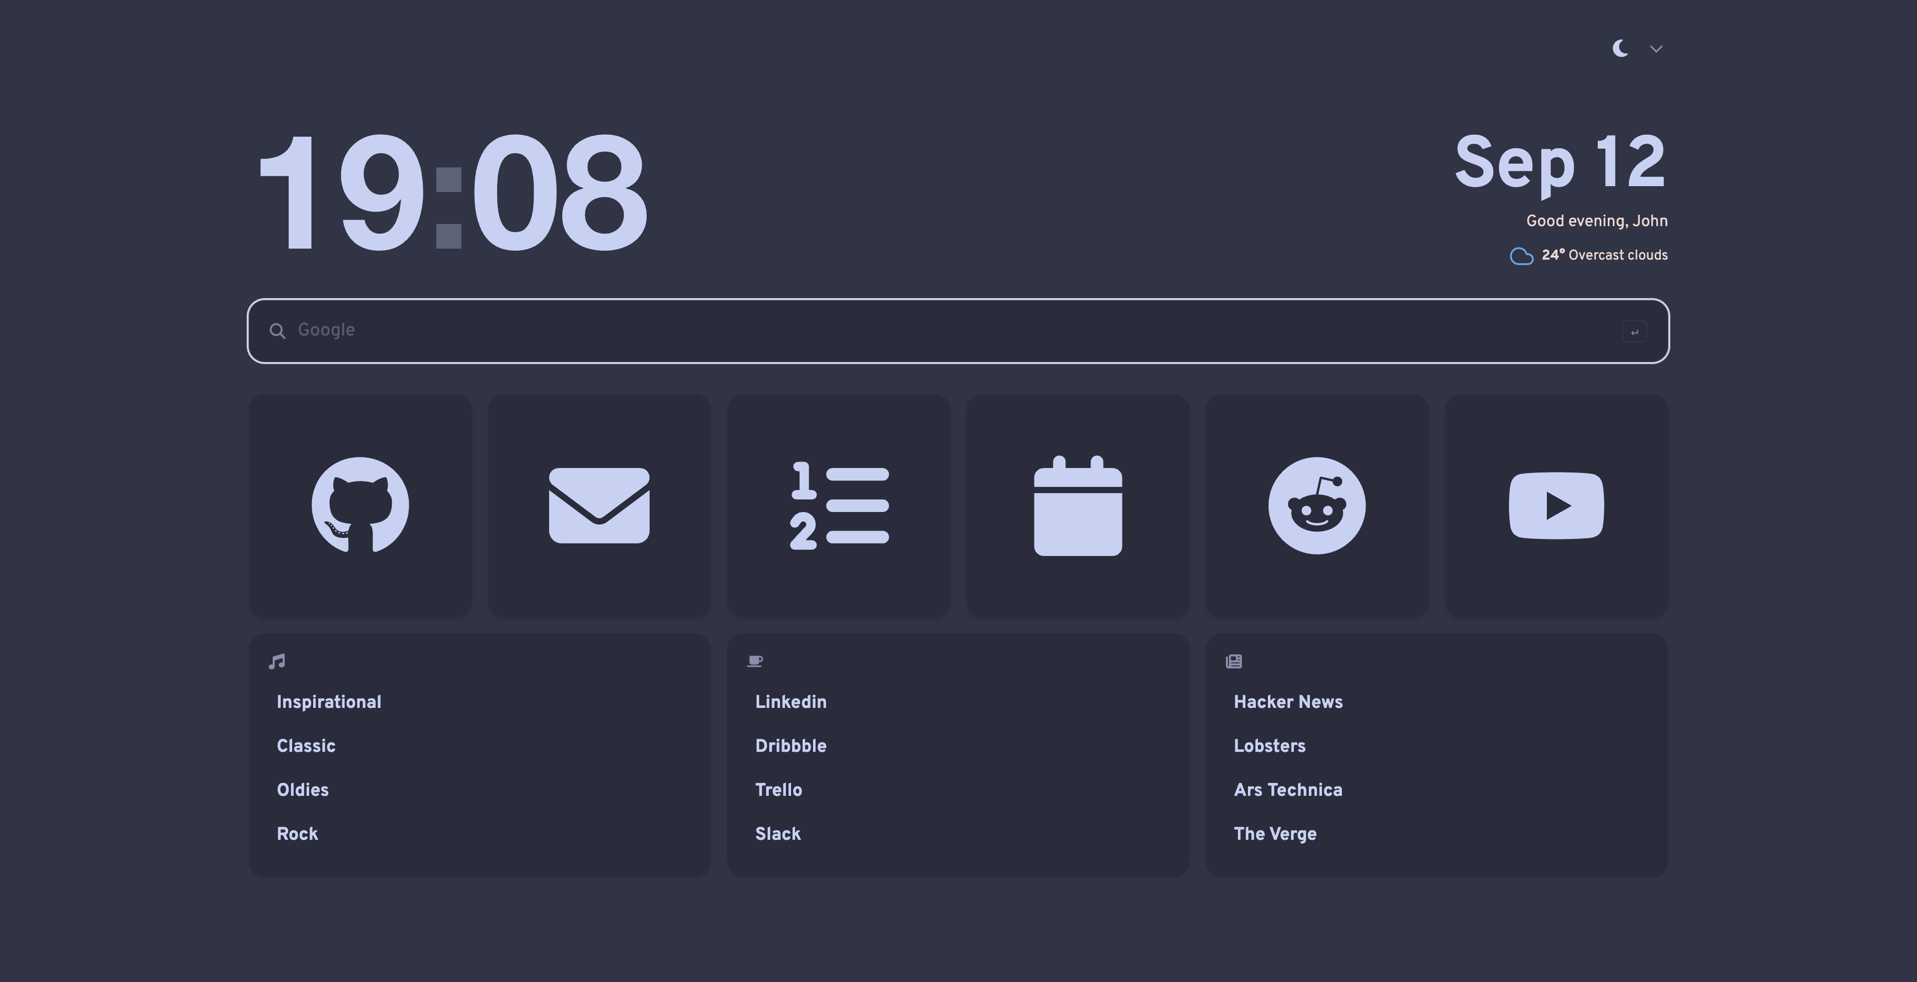
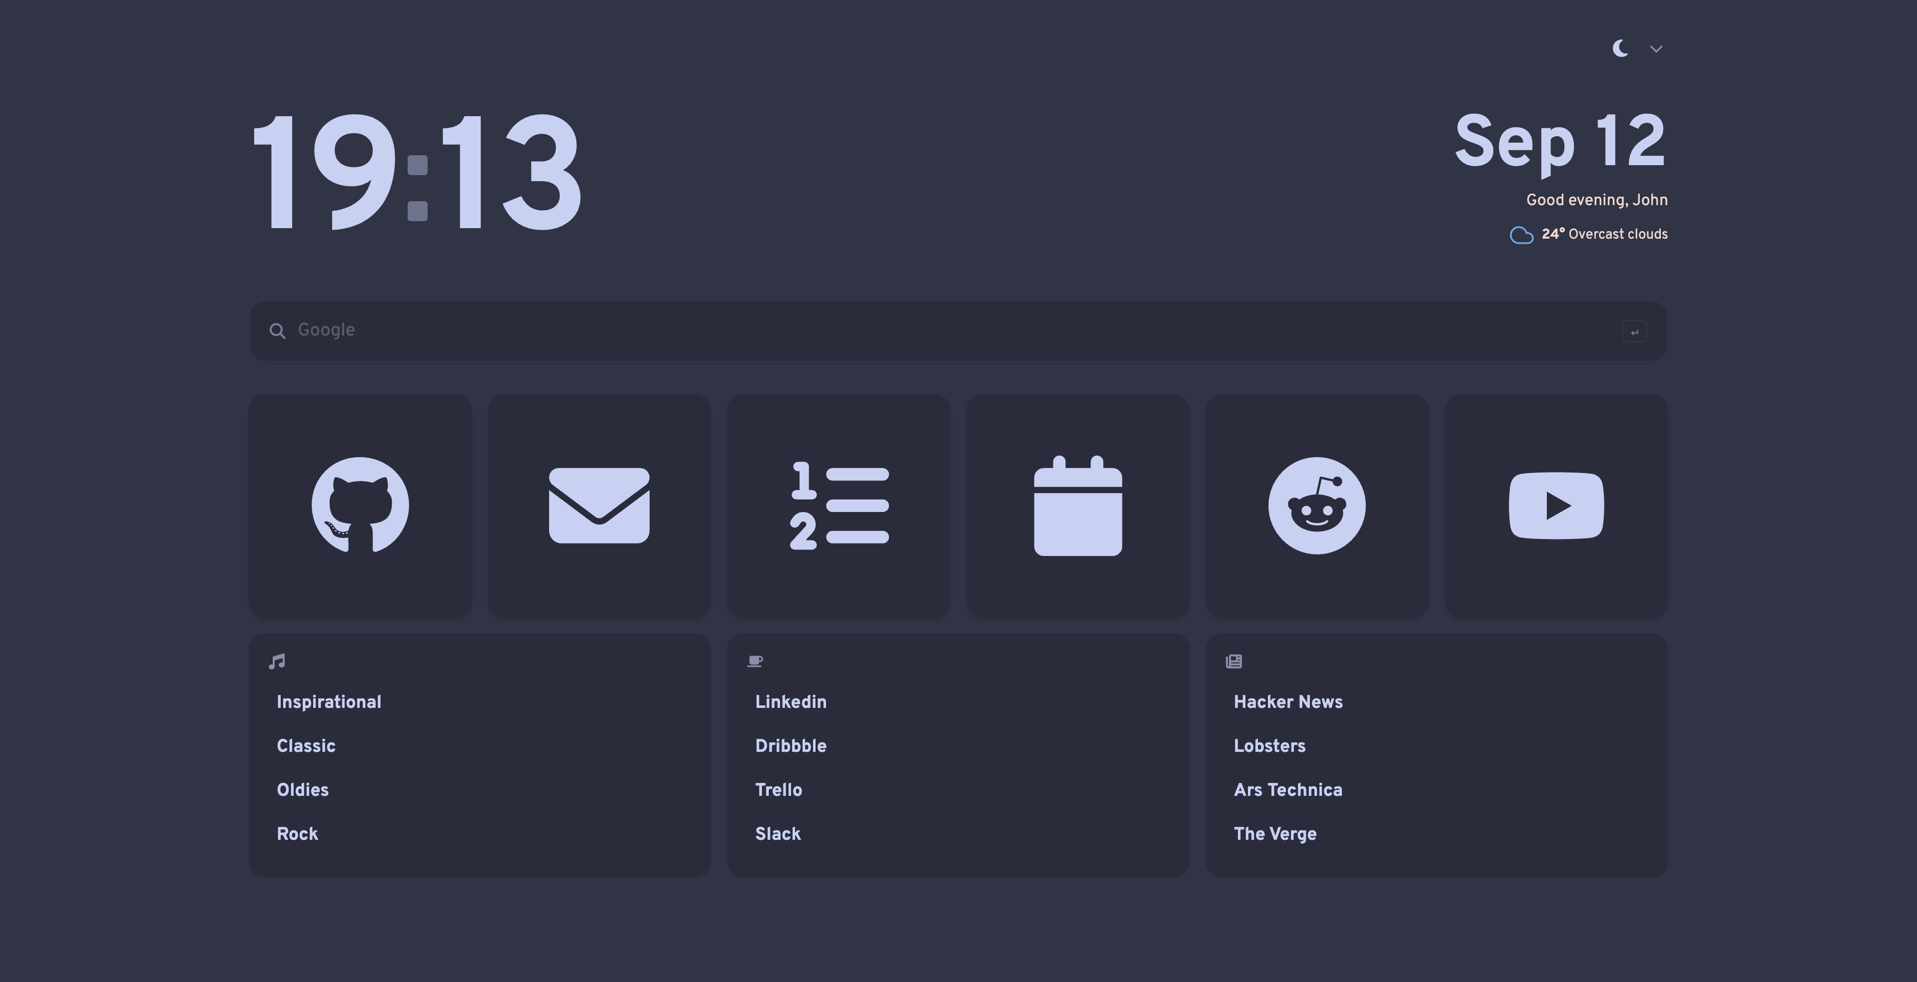
Use the page font for the clock, with a drawn separator
For cross-device consistency the clock now uses the configured font instead of
font-sans (Helvetica Neue / SF). To keep the tight numeral spacing and square
colon, add negative tracking and replace the colon with a font-independent
two-dot ClockSeparator (Tailwind utilities; blink keyframes in the Tailwind
config). Refresh the README screenshot.

Changed region(s): [[0.1231, 0.1222, 0.3385, 0.2749], [0.7387, 0.0916, 0.8925, 0.2749]]

diff --git a/src/components/DigitalClock.vue b/src/components/DigitalClock.vue
@@ -1,44 +1,27 @@
 <script setup lang="ts">
 import { config } from '../../config';
 import { useClock } from '../scripts/useClock';
+import ClockSeparator from './ClockSeparator.vue';
 
 const { hours, minutes, ampm } = useClock();
 </script>
 
 <template>
-  <div class="flex w-full flex-row items-end justify-center">
-    <div class="display-text font-sans font-bold text-foreground dark:text-darkforeground">{{ hours }}</div>
-    <div class="display-text font-sans font-bold text-foreground dark:text-darkforeground" :class="config.flashSeparator ? 'blink' : ''">
-      {{ ':' }}
-    </div>
-    <div class="display-text font-sans font-bold text-foreground dark:text-darkforeground">
+  <div
+    class="flex w-full flex-row items-end justify-center"
+    role="timer"
+    :aria-label="`${hours}:${minutes}${config.twelveHourFormat ? ' ' + ampm : ''}`"
+  >
+    <div class="display-text font-bold tracking-[-0.04em] text-foreground dark:text-darkforeground">{{ hours }}</div>
+    <ClockSeparator :blink="config.flashSeparator" class="display-text mx-[0.06em]" />
+    <div class="display-text font-bold tracking-[-0.04em] text-foreground dark:text-darkforeground">
       {{ minutes }}
     </div>
     <div
       v-if="config.twelveHourFormat"
-      class="mb-2 self-end font-sans text-[clamp(1.25rem,3.5vh,2.5rem)] font-bold lowercase text-foreground dark:text-darkforeground"
+      class="mb-2 self-end text-[clamp(1.25rem,3.5vh,2.5rem)] font-bold lowercase text-foreground dark:text-darkforeground"
     >
       {{ ampm }}
     </div>
   </div>
 </template>
-
-<style>
-@keyframes pulse {
-  0% {
-    opacity: 0.25;
-  }
-  25% {
-    opacity: 0.5;
-  }
-  50% {
-    opacity: 1;
-  }
-  100% {
-    opacity: 0.25;
-  }
-}
-.blink {
-  animation: pulse 1s cubic-bezier(0.05, 0.46, 0.92, 0.5) infinite;
-}
-</style>

diff --git a/src/components/EditorialLayout.vue b/src/components/EditorialLayout.vue
@@ -14,6 +14,7 @@ import { useEditableName } from '../scripts/useEditableName';
 import { prefixedIcon } from '../scripts/iconPrefix';
 import ThemeButton from './ThemeButton.vue';
 import LaunchTile from './LaunchTile.vue';
+import ClockSeparator from './ClockSeparator.vue';
 import contenteditable from 'vue-contenteditable';
 import type { List } from '../types/config';
 
@@ -74,12 +75,14 @@ onBeforeUnmount(() => window.removeEventListener('resize', alignDate));
         <h1
           v-if="config.componentsEnabled.clock"
           ref="clockRef"
-          class="hero-clock p-rise flex items-end font-sans font-bold tabular-nums leading-none"
+          class="hero-clock p-rise flex items-end font-bold leading-none"
           style="--d: 40ms"
+          role="timer"
+          :aria-label="`${hours}:${minutes}${config.twelveHourFormat ? ' ' + ampm : ''}`"
         >
-          <span>{{ hours }}</span>
-          <span class="opacity-30" :class="config.flashSeparator ? 'blink' : ''">{{ ':' }}</span>
-          <span>{{ minutes }}</span>
+          <span class="tracking-[-0.04em]">{{ hours }}</span>
+          <ClockSeparator :blink="config.flashSeparator" class="mx-[0.06em] opacity-40" />
+          <span class="tracking-[-0.04em]">{{ minutes }}</span>
           <span v-if="config.twelveHourFormat" class="mb-2 ml-2 self-end text-[clamp(1.25rem,3.5vh,2.5rem)] lowercase">
             {{ ampm }}
           </span>

diff --git a/src/components/ClockSeparator.vue b/src/components/ClockSeparator.vue
@@ -1,0 +1,19 @@
+<script setup lang="ts">
+/**
+ * Font-independent clock separator: two stacked dots, so the look is identical
+ * regardless of the configured font or the platform. Sized in `em`, so it scales
+ * with whatever font-size its parent sets.
+ */
+defineProps<{ blink?: boolean }>();
+</script>
+
+<template>
+  <span
+    class="inline-flex h-[1em] flex-col items-center justify-center gap-[0.16em]"
+    :class="{ 'animate-clock-blink': blink }"
+    aria-hidden="true"
+  >
+    <span class="h-[0.125em] w-[0.125em] rounded-[0.02em] bg-current" />
+    <span class="h-[0.125em] w-[0.125em] rounded-[0.02em] bg-current" />
+  </span>
+</template>

diff --git a/src/components/CurrentWeather.vue b/src/components/CurrentWeather.vue
@@ -9,7 +9,7 @@ const { weather, description } = useWeather();
 <template>
   <div class="flex items-center justify-center">
     <img class="h-10 w-10" :src="store.weatherIcon" />
-    <p class="ml-4 font-sans text-3xl font-bold text-foreground dark:text-darkforeground">{{ weather?.main.temp }}°</p>
-    <p class="ml-4 font-sans text-xl text-foreground dark:text-darkforeground">{{ description || 'Unknown' }}</p>
+    <p class="ml-4 text-3xl font-bold text-foreground dark:text-darkforeground">{{ weather?.main.temp }}°</p>
+    <p class="ml-4 text-xl text-foreground dark:text-darkforeground">{{ description || 'Unknown' }}</p>
   </div>
 </template>

diff --git a/tailwind.config.js b/tailwind.config.js
@@ -15,6 +15,17 @@ module.exports = {
 
     },
     extend: {
+      keyframes: {
+        "clock-blink": {
+          "0%": { opacity: "0.25" },
+          "25%": { opacity: "0.5" },
+          "50%": { opacity: "1" },
+          "100%": { opacity: "0.25" },
+        },
+      },
+      animation: {
+        "clock-blink": "clock-blink 1s cubic-bezier(0.05, 0.46, 0.92, 0.5) infinite",
+      },
       fontFamily: {
         sans: ["Helvetica Neue", "Ubuntu Sans", ...defaultTheme.fontFamily.sans],
       },
